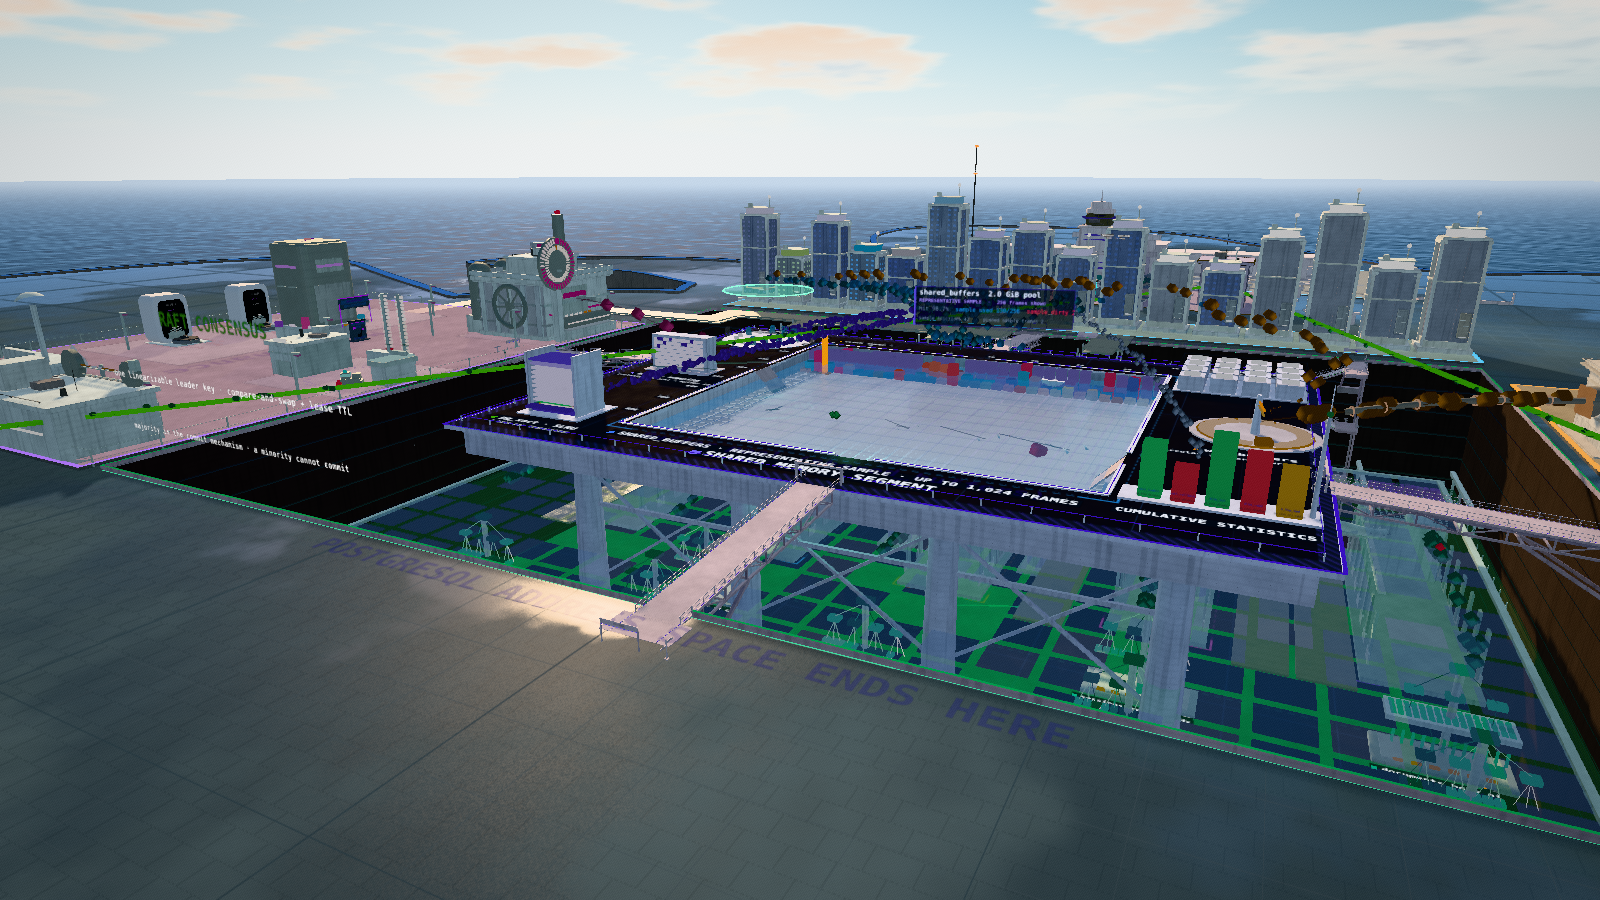
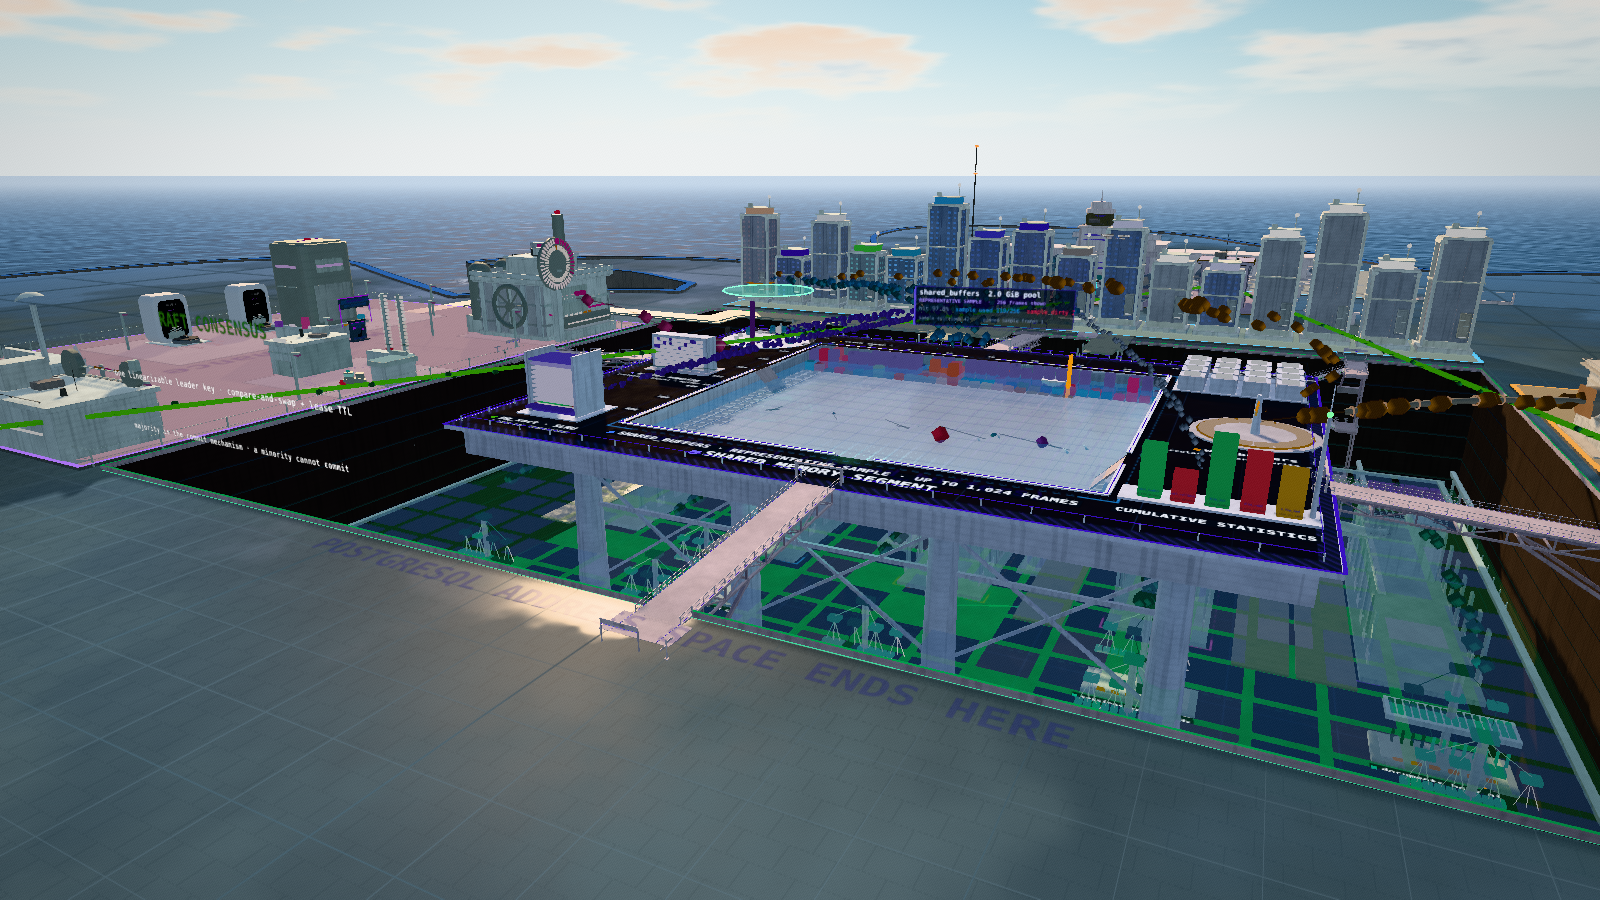
chore: release v0.59.0
Fixes the rendering review's findings: SMAA no longer clears the
scene depth the output pass reads, the mirror share is a blend that
cannot exceed one, fine detail fades before it aliases, the sea rim
is out of frame at maximum zoom, and the ground's sun uniforms have
one owner on every tier. Changelog records the panel, what was fixed,
what was held back and what is knowingly left.

Claude-Session: https://claude.ai/code/session_01Rq7zU2f3hDKYudaAHdTot7

diff --git a/src/world/ground.ts b/src/world/ground.ts
@@ -215,7 +215,9 @@ void main() {
 
     vec3 toEye = normalize( cameraPosition - vWorld );
     // A film of water is flat; only the damp margin keeps the slab's tooth.
-    vec2 tooth = vec2( wetNoise( p * 7.3 ), wetNoise( p * 7.3 + 19.0 ) ) - 0.5;
+    // Tooth is a walking-distance detail; beyond it the glint would sparkle.
+    vec2 tooth = ( vec2( wetNoise( p * 7.3 ), wetNoise( p * 7.3 + 19.0 ) ) - 0.5 )
+               * ( 1.0 - smoothstep( 25.0, 110.0, viewDistance ) );
     vec3 wetNormal = normalize( vec3( tooth.x, 16.0 + 80.0 * pool, tooth.y ) );
     vec3 mirror = reflect( - toEye, wetNormal );
     float sunward = max( dot( mirror, uSunDirection ), 0.0 );
@@ -1234,15 +1236,17 @@ export const createGround: WorldFactory = (ctx: WorldContext): WorldModule => {
     /* The mirror follows the live sky, so clock mode needs these every frame.
      * All writes land in objects made at build time. */
     uWet.value = groundWetness(quality.level)
+    // One owner on every tier: the dry raking highlight reads these too, and a
+    // value left behind by a higher tier would light it from the wrong key.
+    uSunDirection.value
+      .set(air.keyPos[0] - air.keyTarget[0], air.keyPos[1] - air.keyTarget[1], air.keyPos[2] - air.keyTarget[2])
+      .normalize()
+    uSunColor.value.setHex(air.keyColor)
     if (uWet.value > 0) {
       // Keyed to the bloom pass, not to daylight: at dusk in clock mode bloom
       // is still running, and a bright glint would cross its threshold.
       uGlint.value = groundGlint(!air.bloomEnabled)
       uSkyFill.value = groundSkyFill(themeDaylight())
-      uSunDirection.value
-        .set(air.keyPos[0] - air.keyTarget[0], air.keyPos[1] - air.keyTarget[1], air.keyPos[2] - air.keyTarget[2])
-        .normalize()
-      uSunColor.value.setHex(air.keyColor)
       linearSky(uSkyZenith.value, air.skyZenith)
       linearSky(uSkyHorizon.value, air.skyHorizon)
       linearSky(uSkyGlow.value, air.skyGlow)

diff --git a/src/core/theme.ts b/src/core/theme.ts
@@ -597,9 +597,12 @@ const SURFACE_FRAG = /* glsl */ `
 		 * tie hole in every panel. Height only, so it exists as raking light and
 		 * retires with the normal long before it could alias. */
 		if ( pgNormalFade > 0.0 ) {
-			float pgGrit = pgValueNoise( pgSt * 23.0 ) + 0.5 * pgValueNoise( pgSt * 61.0 );
+			// Each term fades before its own Nyquist footprint, or it shimmers in motion.
+			float pgFine = 1.0 - smoothstep( 0.008, 0.022, pgPx );
+			float pgGrit = 0.75 + ( pgValueNoise( pgSt * 23.0 ) * 1.5 - 0.75 ) * pgFine;
 			vec2 pgTieAt = ( fract( vec2( pgHead, pgCourse ) ) - 0.5 ) * vec2( 2.6, 1.15 );
-			float pgTie = ( 1.0 - smoothstep( 0.035, 0.06, length( pgTieAt ) ) ) * ( 1.0 - pgFlat );
+			float pgTie = ( 1.0 - smoothstep( 0.035, 0.06, length( pgTieAt ) ) ) * ( 1.0 - pgFlat )
+			            * ( 1.0 - smoothstep( 0.02, 0.06, pgPx ) );
 			pgSurfaceHeight += ( ( pgGrit - 0.75 ) * 0.0035 + pgBlotch * 0.004 - pgTie * 0.02 ) * pgNormalFade;
 			roughnessFactor = clamp( roughnessFactor + ( pgGrit - 0.75 ) * 0.08 * pgNormalFade, 0.3, 1.0 );
 			pgPit = 1.0 - pgTie * 0.45 * pgNormalFade;
@@ -652,7 +655,9 @@ const METAL_FRAG = /* glsl */ `
 	vec2 pgSt = vec2( mix( pgU, pgWorld.x, pgFlat ), mix( pgWorld.y, pgWorld.z, pgFlat ) );
 	float pgFade = 1.0 - smoothstep( 0.5, 3.0, pgPx );
 
-	float pgBrush = pgValueNoise( vec2( pgSt.x * 9.0, pgSt.y * 0.35 ) + pgSeed * 17.0 );
+	// Nine cycles a metre: retired before 5 cm a pixel, where it would alias.
+	float pgBrush = 0.5 + ( pgValueNoise( vec2( pgSt.x * 9.0, pgSt.y * 0.35 ) + pgSeed * 17.0 ) - 0.5 )
+	              * ( 1.0 - smoothstep( 0.015, 0.045, pgPx ) );
 	float pgSmudge = pgValueNoise( pgSt * 0.6 + pgSeed * 29.0 ) * 0.6 + pgValueNoise( pgSt * 2.3 + 3.0 ) * 0.4;
 	float pgSeamAt = pgSt.y / 2.4 + pgSeed.y;
 	float pgSeam = 1.0 - smoothstep( 0.0, fwidth( pgSeamAt ) * 1.5 + 0.012, 0.5 - abs( fract( pgSeamAt ) - 0.5 ) );

diff --git a/src/engine/renderer.ts b/src/engine/renderer.ts
@@ -318,6 +318,27 @@ class ComposerDepthGTAOPass extends GTAOPass {
   }
 }
 
+/**
+ * SMAA writes into the composer target that still carries the scene's depth
+ * texture, and a fullscreen draw clears depth along with colour. The output
+ * pass reads that depth afterwards for aerial perspective and haze scatter, so
+ * this pass must leave it alone.
+ */
+class DepthPreservingSMAAPass extends SMAAPass {
+  override render(
+    renderer: THREE.WebGLRenderer,
+    writeBuffer: THREE.WebGLRenderTarget,
+    readBuffer: THREE.WebGLRenderTarget,
+    deltaTime: number,
+    maskActive: boolean,
+  ): void {
+    const autoClearDepth = renderer.autoClearDepth
+    renderer.autoClearDepth = false
+    super.render(renderer, writeBuffer, readBuffer, deltaTime, maskActive)
+    renderer.autoClearDepth = autoClearDepth
+  }
+}
+
 export function createRenderer(container: HTMLElement, bus: Bus): RendererApi {
   const quality: QualitySettings = { ...QUALITY_PRESETS[DEFAULT_LEVEL] }
   let air: Atmosphere = atmosphere()
@@ -707,7 +728,7 @@ export function createRenderer(container: HTMLElement, bus: Bus): RendererApi {
 
     // SMAAPass takes no constructor args in r185 and MUST run before OutputPass:
     // it expects linear-srgb input.
-    smaaPass = new SMAAPass()
+    smaaPass = new DepthPreservingSMAAPass()
     composer.addPass(smaaPass)
 
     // Day grade, tone mapping and colour conversion happen here, exactly once.

diff --git a/src/world/ground-surface.test.ts b/src/world/ground-surface.test.ts
@@ -17,6 +17,7 @@ import {
   groundSkyFill,
   groundSurfaceDetail,
   groundWetness,
+  wetMirrorShare,
   groundSurveyDetail,
 } from './ground-surface'
 
@@ -135,6 +136,23 @@ describe('procedural ground surface', () => {
     expect(WET_DAMP_MIRROR).toBeGreaterThan(0)
     expect(WET_FRESNEL_FLOOR).toBeGreaterThanOrEqual(0.02)
     expect(WET_FRESNEL_FLOOR).toBeLessThan(0.2)
+  })
+
+  it('never lets the mirror replace more than the whole pixel, or bloom', () => {
+    /* The share was once a sum that reached 1.42 where a pool sat in damp
+     * paving: the blend subtracted the paving and a capped reflection crossed
+     * the bloom threshold anyway. */
+    let peak = 0
+    for (let damp = 0; damp <= 1.0001; damp += 0.05) {
+      for (let pool = 0; pool <= 1.0001; pool += 0.05) {
+        peak = Math.max(peak, wetMirrorShare(damp, pool))
+      }
+    }
+    expect(peak).toBeLessThanOrEqual(WET_POOL_MIRROR)
+    expect(wetMirrorShare(1, 1)).toBe(WET_POOL_MIRROR)
+    expect(wetMirrorShare(1, 0)).toBe(WET_DAMP_MIRROR)
+    expect(wetMirrorShare(0, 0)).toBe(0)
+    expect(WET_FIELD_GLSL).toContain(`mix( damp * ${WET_DAMP_MIRROR.toFixed(3)}, ${WET_POOL_MIRROR.toFixed(3)}, pool )`)
   })
 
   it('floods standing water only inside paving that is already damp', () => {

diff --git a/src/world/ground-surface.ts b/src/world/ground-surface.ts
@@ -106,6 +106,13 @@ export const WET_FRESNEL_FLOOR = 0.08
 export const WET_POOL_MIRROR = 0.92
 export const WET_DAMP_MIRROR = 0.5
 
+/** CPU mirror of the shader's `wetMirror`: the share of a pixel the mirror may replace. */
+export function wetMirrorShare(damp: number, pool: number): number {
+  const d = Math.max(0, Math.min(1, damp))
+  const p = Math.max(0, Math.min(1, pool))
+  return d * WET_DAMP_MIRROR * (1 - p) + WET_POOL_MIRROR * p
+}
+
 /**
  * One wetness field for every consumer. The plate shades with it and the
  * reflection pass masks with it, so a mirrored building can only ever appear
@@ -164,8 +171,10 @@ float wetFresnel( float cosine ) {
   return ${WET_FRESNEL_FLOOR.toFixed(3)} + ${(1 - WET_FRESNEL_FLOOR).toFixed(3)} * pow( 1.0 - clamp( cosine, 0.0, 1.0 ), 5.0 );
 }
 
+// A blend, not a sum: standing water replaces the damp film, so the share
+// can never exceed the pool's own.
 float wetMirror( float damp, float pool ) {
-  return pool * ${WET_POOL_MIRROR.toFixed(3)} + damp * ${WET_DAMP_MIRROR.toFixed(3)};
+  return mix( damp * ${WET_DAMP_MIRROR.toFixed(3)}, ${WET_POOL_MIRROR.toFixed(3)}, pool );
 }
 `
 

diff --git a/src/engine/wet-reflections.test.ts b/src/engine/wet-reflections.test.ts
@@ -2,7 +2,7 @@ import { describe, expect, it } from 'vitest'
 
 import { ATMOSPHERE } from '../core/themes'
 import type { QualityLevel } from '../core/types'
-import { groundWetness } from '../world/ground-surface'
+import { groundWetness, wetMirrorShare } from '../world/ground-surface'
 import {
   WET_MARCH_GROWTH,
   WET_MARCH_START,
@@ -56,6 +56,8 @@ describe('wet-ground reflections', () => {
   it('caps mirrored night radiance below the bloom threshold', () => {
     // A reflected neon is the same fact seen twice; only the original may glow.
     expect(WET_NIGHT_RADIANCE_CAP).toBeLessThan(ATMOSPHERE.night.bloomThreshold)
+    // Fresnel tops out at one, so the largest composited mirror is cap x share.
+    expect(WET_NIGHT_RADIANCE_CAP * wetMirrorShare(1, 1)).toBeLessThan(ATMOSPHERE.night.bloomThreshold)
   })
 
   it('caps a mirrored signal without changing its hue', () => {

diff --git a/src/engine/wet-reflections.ts b/src/engine/wet-reflections.ts
@@ -238,7 +238,11 @@ export class WetReflectionPass extends Pass {
   setQuality(level: QualityLevel, depthAvailable: boolean): void {
     const { steps, scale } = WET_REFLECTION_PRESETS[level]
     this.enabled = depthAvailable && steps > 0 && groundWetness(level) > 0
-    if (!this.enabled) return
+    if (!this.enabled) {
+      // A downgraded tier must not keep a framebuffer-sized float target alive.
+      this.target.setSize(1, 1)
+      return
+    }
     this.scale = scale
     this.setSize(this.fullWidth, this.fullHeight)
     this.material.uniforms.uReach.value = wetReflectionReach(steps)

diff --git a/src/world/sea.ts b/src/world/sea.ts
@@ -18,8 +18,11 @@ import { WET_FIELD_GLSL } from './ground-surface'
 
 /** Metres below the paving. The retaining skirt continues well beneath it. */
 export const SEA_LEVEL = -9
-/** Beyond the far fog distance in both modes, so no edge is ever visible. */
-export const SEA_RADIUS = 3800
+/**
+ * The rim must be past the fog's far distance from the furthest the camera can
+ * orbit, in both modes, so no edge is ever in frame.
+ */
+export const SEA_RADIUS = 5200
 /** Deep-water body colour, sRGB. Low chroma by construction. */
 export const SEA_DEEP = { day: 0x1f3440, night: 0x070a10 } as const
 

diff --git a/src/world/sea.test.ts b/src/world/sea.test.ts
@@ -26,8 +26,10 @@ describe('the sea around the island', () => {
   })
 
   it('outruns the fog in both modes, so its rim is never in frame', () => {
+    // The orbit camera can sit this far from the origin (engine/camera.ts MAX_DIST plus its pivot range).
+    const furthestEye = 2000
     for (const air of [ATMOSPHERE.day, ATMOSPHERE.night]) {
-      expect(SEA_RADIUS).toBeGreaterThan(CITY.fog.far * air.fogFarScale)
+      expect(SEA_RADIUS - furthestEye).toBeGreaterThan(CITY.fog.far * air.fogFarScale)
     }
   })
 

diff --git a/CHANGELOG.md b/CHANGELOG.md
@@ -9,9 +9,16 @@ are all still moving. Expect breaking changes between minor versions.
 
 ---
 
-## Unreleased — Cinematic rendering
+## v0.59.0 — Cinematic rendering
 
-Graphics only; no simulation behaviour changes. Not yet read by a review panel.
+Graphics only; no simulation behaviour changes. Frame rate on a real GPU is
+unmeasured: every capture was software WebGL, so the adaptive quality ladder is
+the only safety net for the new per-pixel cost.
+
+Read before release by a four-reviewer panel across two models (Opus and
+Sonnet; no GPT reviewer was available): PostgreSQL and semantic honesty twice,
+rendering correctness, and reader experience. Its blocking findings are fixed
+or withdrawn below.
 Weather, water and age are setting, not PostgreSQL facts: none of it is
 registered, labelled or pickable, and its own colour is a dark grey-blue, grey, or the sky's.
 Reflections and haze do carry the hue of the signal they come
@@ -25,6 +32,19 @@ from, so amber WAL light can fall on neighbouring paving.
 - Night haze lit by the city: the bloom chain's widest blur is scattered into the air by path length, so only what already clears the bloom threshold (semantic signals and the moon) can light it.
 - Daylight contrast: a stronger, warmer sun against less ambient fill, deeper cast shadows, and a luminance-only filmic contrast curve that keeps every semantic colour pair separated.
 - Film lens after display encoding: restrained grain (frozen under reduced motion, including a change after load) and a daylight vignette that leaves the centre of the frame untouched. Disabled on the low and reduced tiers.
+
+Fixed on the panel's findings:
+
+- Anti-aliasing cleared the scene depth that the output pass reads afterwards, so on high and ultra the height haze was silently off and the night haze glow ignored distance. The depth now survives.
+- The mirror's share of a pixel could reach 1.42 where a pool sat in damp paving, which subtracted the paving and let a capped reflection cross the bloom threshold. It is now a blend that cannot exceed the pool's own share.
+- Fine concrete, steel and wet-paving detail now fades before the footprint at which it would shimmer.
+
+Known and left:
+
+- The reflection pass composites over whatever is drawn on wet paving. At street level a ground decal or halo over standing water can be partly replaced by the mirror; from above the effect is slight.
+- Concrete and steel detail runs on every quality tier, including low and reduced, where its distance cut-off is the only saving.
+- In first-person views the wet mask can speckle on distant paving, and the half-resolution mirror can bleed a pixel onto wall edges.
+- `docs/screenshot.png` predates this release and no longer matches the daylight look.
 
 Held back by the review panel, with the reason:
 

diff --git a/blueprints/TIER-AUDIT.md b/blueprints/TIER-AUDIT.md
@@ -11,7 +11,7 @@ The colour readings use the same semantic materials and combined output path as
 the renderer: the tier's bloom fallback, daylight grade with its contrast curve,
 shaft addition and height haze, read at the centre of the frame. The same
 floors are also tested in the frame corner under the daylight vignette. The
-night haze glow and light pools are additive and are not part of this reading.
+night haze glow is additive and is not part of this reading.
 Each entry is the minimum of all 45 semantic pairs. Disclosure and
 touch readings come from a real 390 × 844 browser after each live quality
 transition.
@@ -34,7 +34,7 @@ all 20 reachable City controls were measured at every tier.
   half-resolution water reflection, AO, aerial perspective, 2048px soft
   shadows, ten-tap shafts, SMAA, bevels, full ground response, all rooftop
   dressing, wet paving with 24-tap reflections, the procedural cloud deck,
-  two-octave sea waves, night haze glow and light pools, and the film lens.
+  two-octave sea waves, night haze glow, and the film lens.
 - `high` removes 14 rooftop-detail anchors and reduces AO resolution/samples,
   aerial perspective, shadow resolution/softness and shaft resolution/samples.
   Wet-paving reflections drop to 16 taps at half resolution. It retains every
@@ -48,8 +48,7 @@ all 20 reachable City controls were measured at every tier.
   daylight sky scattering, clouds and bloom remain.
 - `reduced` additionally removes the environment map, planar water reflection,
   AO, aerial perspective, light shafts, daylight sky scattering and clouds,
-  ground-surface aggregate/joint response, sea waves, night haze glow and light
-  pools, the film lens, rooftop dressing, ambient ground
+  ground-surface aggregate/joint response, sea waves, night haze glow, the film lens, rooftop dressing, ambient ground
   light cones and articulated finger detail. It renders at 1× and retains the
   cheaper legacy sky, hand silhouettes and bloom.
 - `low` removes bloom as well, and bypasses the post chain at night. Its
